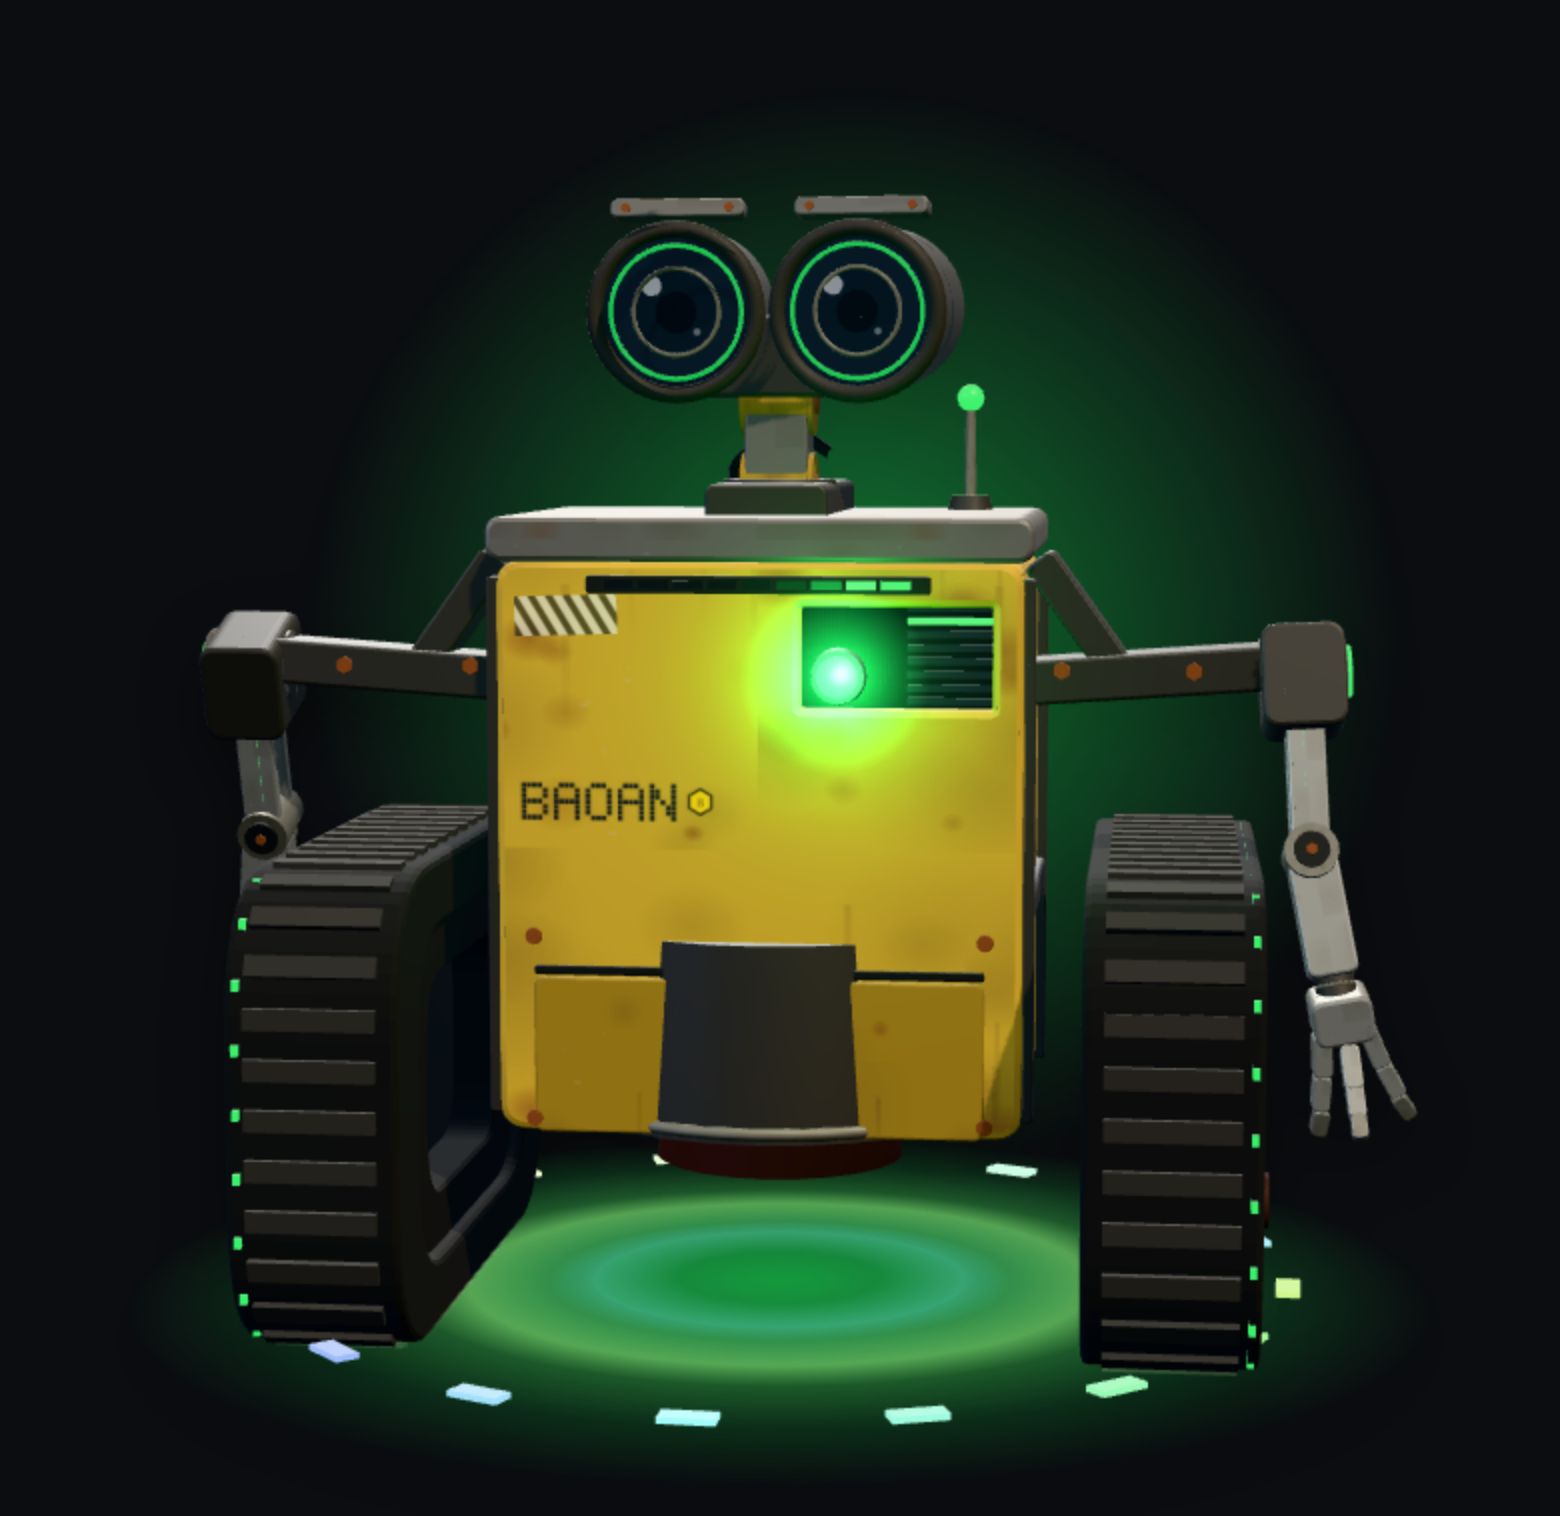
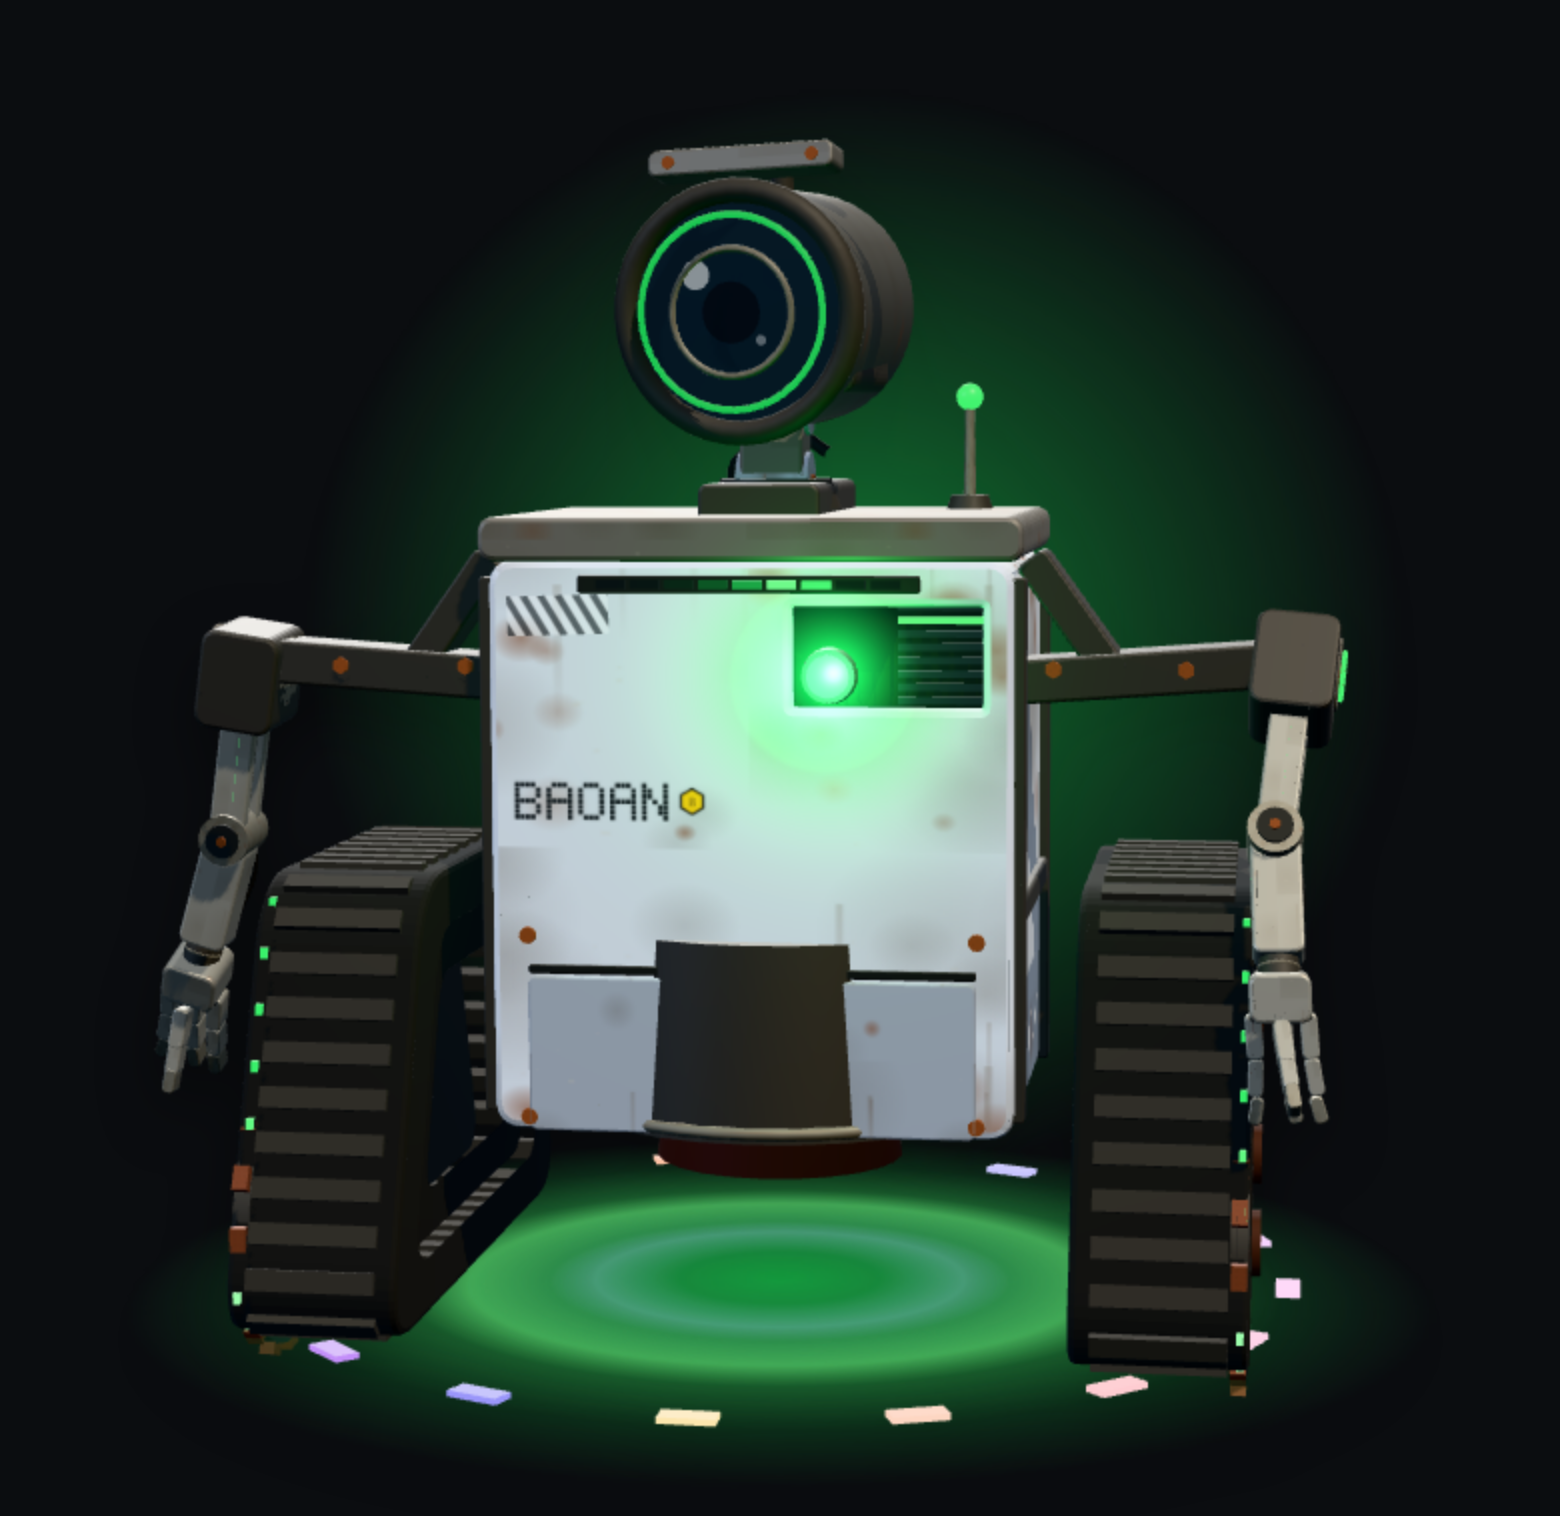
feat: give the robot a distinct factory look
- default appearance is now titanium white, single-eye head, trapezoid tracks and three-finger claws, with a matching '钛金原色' theme
- keep every existing skin/head/track/claw option and leave saved looks untouched; only fresh installs and reset-look use the new default
- README drops the homage wording and describes an original cartoon robot; hero image and landing demo regenerated
- add a contract test tying config DEFAULTS to the palette and UI option lists, and update the palette/UI expectations

diff --git a/docs/demo/robot3d.js b/docs/demo/robot3d.js
@@ -45,10 +45,10 @@ function datasetJson(key) {
 
 // ------------------------------------------------------------------ materials
 
-// The palette is the character: dusty ochre paint over gunmetal, rust where the
+// The palette is the character: titanium paint over gunmetal, rust where the
 // paint has worn through, and not one mirror-bright surface anywhere. Chrome
-// reads as "new toy"; WALL·E is a machine that has been outside for 700 years.
-// 初始材质取 palette 的第一项（做旧黄 / 默认黑瞳 / 黑履带 / 枪灰配件），
+// reads as "new toy"; this robot reads as a machine that has been outside for years.
+// 初始材质取 palette 的第一项（钛金白 / 默认黑瞳 / 黑履带 / 枪灰配件），
 // 也就是 config 的出厂默认值 —— 免得同一组颜色在这里被抄第三遍。
 const DEFAULT_SKIN = SKIN_TONES[0];
 const DEFAULT_EYE = EYE_TONES[0];
@@ -152,7 +152,7 @@ function applySkin(name, hex) {
     main = toHex(base);
     dark = darkenHex(main);
   } else {
-    const s = SKINS[name] || SKINS['做旧黄'];
+    const s = SKINS[name] || SKINS[DEFAULT_SKIN.name];
     main = s.main;
     dark = s.dark;
   }
@@ -226,7 +226,7 @@ const CLAW_TYPES = {
   '四指': { fingers: [[-0.072, -1], [-0.024, 1], [0.024, -1], [0.072, 1]], w: 0.032 },
   '五指': { fingers: [[-0.080, -1], [-0.040, 1], [0, -1], [0.040, 1], [0.080, -1]], w: 0.026 },
 };
-let clawType = '铲形';
+let clawType = '三指';
 
 // ---- 胳膊形状：上臂造型可切换，切换时重建手臂 ------------------------------
 const ARM_TYPES = { '双板': 'plate', '圆筒': 'cylinder', '桁架': 'truss' };
@@ -234,7 +234,7 @@ let armType = '双板';
 
 // ---- 履带形状：轮廓可切换（圆角矩形 / 三角形 / 梯形），切换时重建履带 ------
 const TRACK_TYPES = { '圆角矩形': 'rect', '三角形': 'tri', '梯形': 'trap' };
-let trackType = '圆角矩形';
+let trackType = '梯形';
 
 // ---- 场景：机器人脚下的「立足之地」与氛围粒子 ------------------------------
 const SCENES = {
@@ -256,7 +256,7 @@ const SCENES = {
 let sceneType = '无';
 let particleOpacity = 0;   // 当前场景粒子「不降动效时」的目标透明度（applyScene 记录）
 
-// ---- 头形状：双筒（默认）/ 单眼（中央大眼）/ 三眼（双目 + 额前传感器）------
+// ---- 头形状：单眼（默认）/ 双筒 / 三眼（双目 + 额前传感器）------
 // 每只眼：side 镜像方向（转动/眉形）、x/y 位置、scale 大小。
 const HEAD_TYPES = {
   '双筒': { eyes: [{ side: -1, x: -0.285, y: 0.13, scale: 1 }, { side: 1, x: 0.285, y: 0.13, scale: 1 }] },
@@ -270,7 +270,7 @@ const HEAD_TYPES = {
     ],
   },
 };
-let headType = '双筒';
+let headType = '单眼';
 
 // ---- 眼睛形状：镜筒截面（圆 / 方 / 六边形 / 三角），切换时重建眼睛 ----------
 const EYE_SHAPES = { '圆': 'round', '方': 'square', '六边形': 'hex', '三角': 'tri' };
@@ -1644,7 +1644,7 @@ if (host && renderer) {
 
   // 眼睛构建：读全局 headType（双筒/单眼/三眼），返回新眼睛与泪滴数组。
   function buildEyes() {
-    const cfg = HEAD_TYPES[headType] || HEAD_TYPES['双筒'];
+    const cfg = HEAD_TYPES[headType] || HEAD_TYPES['单眼'];
     const newEyes = [];
     const newTears = [];
     for (const eyeCfg of cfg.eyes) {
@@ -1942,7 +1942,7 @@ if (host && renderer) {
     // an articulated shovel, not a pair of slabs. The middle knuckle is the
     // joint that makes a pinch look like a pinch instead of a clamp. The claw
     // type (铲形 2 指 / 三指 3 指 / 钳形粗指) changes the count and width.
-    const claw = CLAW_TYPES[clawType] || CLAW_TYPES['铲形'];
+    const claw = CLAW_TYPES[clawType] || CLAW_TYPES['三指'];
     const fingerGeo = slab(claw.w, 0.11, 0.062, { r: 0.016, bevel: 0.005 });
     const knuckleGeo = slab(claw.w - 0.004, 0.09, 0.060, { r: 0.015, bevel: 0.004 });
     const tipGeo = slab(claw.w - 0.008, 0.065, 0.058, { r: 0.014, bevel: 0.004 });

diff --git a/src/overlay/robot3d.js b/src/overlay/robot3d.js
@@ -45,10 +45,10 @@ function datasetJson(key) {
 
 // ------------------------------------------------------------------ materials
 
-// The palette is the character: dusty ochre paint over gunmetal, rust where the
+// The palette is the character: titanium paint over gunmetal, rust where the
 // paint has worn through, and not one mirror-bright surface anywhere. Chrome
-// reads as "new toy"; WALL·E is a machine that has been outside for 700 years.
-// 初始材质取 palette 的第一项（做旧黄 / 默认黑瞳 / 黑履带 / 枪灰配件），
+// reads as "new toy"; this robot reads as a machine that has been outside for years.
+// 初始材质取 palette 的第一项（钛金白 / 默认黑瞳 / 黑履带 / 枪灰配件），
 // 也就是 config 的出厂默认值 —— 免得同一组颜色在这里被抄第三遍。
 const DEFAULT_SKIN = SKIN_TONES[0];
 const DEFAULT_EYE = EYE_TONES[0];
@@ -152,7 +152,7 @@ function applySkin(name, hex) {
     main = toHex(base);
     dark = darkenHex(main);
   } else {
-    const s = SKINS[name] || SKINS['做旧黄'];
+    const s = SKINS[name] || SKINS[DEFAULT_SKIN.name];
     main = s.main;
     dark = s.dark;
   }
@@ -226,7 +226,7 @@ const CLAW_TYPES = {
   '四指': { fingers: [[-0.072, -1], [-0.024, 1], [0.024, -1], [0.072, 1]], w: 0.032 },
   '五指': { fingers: [[-0.080, -1], [-0.040, 1], [0, -1], [0.040, 1], [0.080, -1]], w: 0.026 },
 };
-let clawType = '铲形';
+let clawType = '三指';
 
 // ---- 胳膊形状：上臂造型可切换，切换时重建手臂 ------------------------------
 const ARM_TYPES = { '双板': 'plate', '圆筒': 'cylinder', '桁架': 'truss' };
@@ -234,7 +234,7 @@ let armType = '双板';
 
 // ---- 履带形状：轮廓可切换（圆角矩形 / 三角形 / 梯形），切换时重建履带 ------
 const TRACK_TYPES = { '圆角矩形': 'rect', '三角形': 'tri', '梯形': 'trap' };
-let trackType = '圆角矩形';
+let trackType = '梯形';
 
 // ---- 场景：机器人脚下的「立足之地」与氛围粒子 ------------------------------
 const SCENES = {
@@ -256,7 +256,7 @@ const SCENES = {
 let sceneType = '无';
 let particleOpacity = 0;   // 当前场景粒子「不降动效时」的目标透明度（applyScene 记录）
 
-// ---- 头形状：双筒（默认）/ 单眼（中央大眼）/ 三眼（双目 + 额前传感器）------
+// ---- 头形状：单眼（默认）/ 双筒 / 三眼（双目 + 额前传感器）------
 // 每只眼：side 镜像方向（转动/眉形）、x/y 位置、scale 大小。
 const HEAD_TYPES = {
   '双筒': { eyes: [{ side: -1, x: -0.285, y: 0.13, scale: 1 }, { side: 1, x: 0.285, y: 0.13, scale: 1 }] },
@@ -270,7 +270,7 @@ const HEAD_TYPES = {
     ],
   },
 };
-let headType = '双筒';
+let headType = '单眼';
 
 // ---- 眼睛形状：镜筒截面（圆 / 方 / 六边形 / 三角），切换时重建眼睛 ----------
 const EYE_SHAPES = { '圆': 'round', '方': 'square', '六边形': 'hex', '三角': 'tri' };
@@ -1644,7 +1644,7 @@ if (host && renderer) {
 
   // 眼睛构建：读全局 headType（双筒/单眼/三眼），返回新眼睛与泪滴数组。
   function buildEyes() {
-    const cfg = HEAD_TYPES[headType] || HEAD_TYPES['双筒'];
+    const cfg = HEAD_TYPES[headType] || HEAD_TYPES['单眼'];
     const newEyes = [];
     const newTears = [];
     for (const eyeCfg of cfg.eyes) {
@@ -1942,7 +1942,7 @@ if (host && renderer) {
     // an articulated shovel, not a pair of slabs. The middle knuckle is the
     // joint that makes a pinch look like a pinch instead of a clamp. The claw
     // type (铲形 2 指 / 三指 3 指 / 钳形粗指) changes the count and width.
-    const claw = CLAW_TYPES[clawType] || CLAW_TYPES['铲形'];
+    const claw = CLAW_TYPES[clawType] || CLAW_TYPES['三指'];
     const fingerGeo = slab(claw.w, 0.11, 0.062, { r: 0.016, bevel: 0.005 });
     const knuckleGeo = slab(claw.w - 0.004, 0.09, 0.060, { r: 0.015, bevel: 0.004 });
     const tipGeo = slab(claw.w - 0.008, 0.065, 0.058, { r: 0.014, bevel: 0.004 });

diff --git a/src/overlay/ui.js b/src/overlay/ui.js
@@ -2775,6 +2775,7 @@ import {
 
   // 配色主题：一键套用整套协调配色（皮肤/眼睛/履带/配件），仍可单独微调。
   const THEMES = {
+    '钛金原色': { skin: '钛金白', eye: '默认黑', track: '黑', arm: '枪灰' },
     '经典战损黄': { skin: '做旧黄', eye: '默认黑', track: '黑', arm: '枪灰' },
     '纯白机甲': { skin: '岩灰', eye: '蓝瞳', track: '岩灰', arm: '银白' },
     '赛博霓虹': { skin: '深海蓝', eye: '蓝瞳', track: '黑', arm: '暗黑' },
@@ -3737,8 +3738,8 @@ import {
 
   // 一键重置外观：只恢复外观与动作，不碰尺寸、位置、声音和系统开关。
   const LOOK_DEFAULTS = {
-    skin: '做旧黄', eyestyle: '默认黑', eyeshape: '圆', trackstyle: '黑', tracktype: '圆角矩形',
-    armskin: '枪灰', claw: '铲形', armtype: '双板', headtype: '双筒', scene: '无',
+    skin: '钛金白', eyestyle: '默认黑', eyeshape: '圆', trackstyle: '黑', tracktype: '梯形',
+    armskin: '枪灰', claw: '三指', armtype: '双板', headtype: '单眼', scene: '无',
     motion: '标准', halo: '环形', body: '标准', baseEffect: '状态色', brightness: 1,
     decoration: '无', wear: 1, finish: '标准',
     poses: { error: '环抱', waiting: '举手', busy: '泵动', done: '摊开', idle: '垂放' },
@@ -4731,19 +4732,19 @@ import {
         p.apply();
       }
       // 主题下拉由 syncThemeLabel 在所有配色就位后自动判定（匹配主题或「自定义」）。
-      const tt = TRACKTYPE_NAMES.includes(cfg.tracktype) ? cfg.tracktype : '圆角矩形';
+      const tt = TRACKTYPE_NAMES.includes(cfg.tracktype) ? cfg.tracktype : '梯形';
       tracktypeSel.value = tt;
       window.dispatchEvent(new CustomEvent('bao:tracktype', { detail: { tracktype: tt } }));
-      // 四项配色都已就位，现在才能判定主题；否则下拉停在第一项「经典战损黄」，
+      // 四项配色都已就位，现在才能判定主题；否则下拉停在第一项「钛金原色」，
       // 与机器人实际配色不符，用户也没法靠「再选一次」纠正。
       syncThemeLabel();
-      const cw = CLAW_NAMES.includes(cfg.claw) ? cfg.claw : '铲形';
+      const cw = CLAW_NAMES.includes(cfg.claw) ? cfg.claw : '三指';
       clawSel.value = cw;
       window.dispatchEvent(new CustomEvent('bao:claw', { detail: { claw: cw } }));
       const at = ARMTYPE_NAMES.includes(cfg.armtype) ? cfg.armtype : '双板';
       armtypeSel.value = at;
       window.dispatchEvent(new CustomEvent('bao:armtype', { detail: { armtype: at } }));
-      const ht = HEADTYPE_NAMES.includes(cfg.headtype) ? cfg.headtype : '双筒';
+      const ht = HEADTYPE_NAMES.includes(cfg.headtype) ? cfg.headtype : '单眼';
       headtypeSel.value = ht;
       window.dispatchEvent(new CustomEvent('bao:headtype', { detail: { headtype: ht } }));
       const dc = DECORATION_NAMES.includes(cfg.decoration) ? cfg.decoration : '无';

diff --git a/test/contracts.test.js b/test/contracts.test.js
@@ -246,6 +246,24 @@ test('every user-facing config key is in the export list', () => {
   assert.deepEqual(unknown, [], `the export list names keys that do not exist: ${unknown.join(', ')}`);
 });
 
+// 出厂外观有两处真源：config.js 的 DEFAULTS 和 palette/界面选项。任何一边改了
+// 默认值而另一边没跟，表现都是「新装用户看到的下拉值与机器人身上的颜色/形状
+// 对不上」—— 没有报错，也没有截图会失败。
+test('the factory appearance in config matches what the renderer starts with', async () => {
+  const { DEFAULTS } = require('../src/config');
+  const palette = await import('../src/overlay/shared/palette.mjs');
+
+  assert.equal(DEFAULTS.skin, palette.SKIN_TONES[0].name, 'palette index 0 is the factory skin');
+  assert.equal(DEFAULTS.eyestyle, palette.EYE_TONES[0].name);
+  assert.equal(DEFAULTS.trackstyle, palette.TRACK_TONES[0].name);
+  assert.equal(DEFAULTS.armskin, palette.ARM_TONES[0].name);
+
+  // 这三项没有调色板顺序，但必须是界面真的提供的选项（ui.js 的列表）。
+  assert.ok(['双筒', '单眼', '三眼'].includes(DEFAULTS.headtype), `bad headtype: ${DEFAULTS.headtype}`);
+  assert.ok(['铲形', '三指', '钳形', '四指', '五指'].includes(DEFAULTS.claw), `bad claw: ${DEFAULTS.claw}`);
+  assert.ok(['圆角矩形', '三角形', '梯形'].includes(DEFAULTS.tracktype), `bad tracktype: ${DEFAULTS.tracktype}`);
+});
+
 // ------------------------------------------------------------ stylesheet traps
 
 // `#menu button { width: 100% }` 是给整宽按钮（导出/退出）用的，但它的特异性

diff --git a/test-ui/overlay.spec.js b/test-ui/overlay.spec.js
@@ -1111,7 +1111,7 @@ test('custom colours are per part and reset with the look', async ({ page }) => 
     await expect(page.locator(row)).toBeHidden();
   }
   await expect(page.locator('#eye-swatch')).toHaveCSS('background-color', 'rgb(27, 36, 44)');
-  await expect(page.locator('#m-theme')).toHaveValue('经典战损黄');
+  await expect(page.locator('#m-theme')).toHaveValue('钛金原色');
 });
 
 // 广告牌颜色也能自定义：任意十六进制直接下发给场景（牌子是 canvas 画的，
@@ -2501,7 +2501,7 @@ test('reset look restores the factory appearance, random look stays valid', asyn
   await page.selectOption('#m-decoration', '皇冠');
   await page.locator('#m-reset-look').click();
   await expect(page.locator('#m-decoration')).toHaveValue('无');
-  await expect(page.locator('#m-skin')).toHaveValue('做旧黄');
+  await expect(page.locator('#m-skin')).toHaveValue('钛金白');
 
   await page.evaluate(() => { window.__bao = []; });
   await page.locator('#m-random-look').click();

diff --git a/src/config.js b/src/config.js
@@ -113,15 +113,15 @@ const DEFAULTS = {
   firstRun: null,
   // ---- 外观 ----
   body: '标准',
-  skin: '做旧黄',
+  skin: '钛金白',
   eyestyle: '默认黑',
   eyeshape: '圆',
   trackstyle: '黑',
-  tracktype: '圆角矩形',
+  tracktype: '梯形',
   armskin: '枪灰',
-  claw: '铲形',
+  claw: '三指',
   armtype: '双板',
-  headtype: '双筒',
+  headtype: '单眼',
   scene: '无',
   // 场景按时间自动切换：白天一个场景、夜晚一个场景（支持跨午夜 20:00 → 07:00）。
   // 关闭时 scene 是唯一来源；打开后 sceneSel 的值不再生效，由时间决定。

diff --git a/README.md b/README.md
@@ -24,7 +24,7 @@
 
 ![baoanlight 桌面机器人](docs/robot.png)
 
-它是一台黄色履带机器人（造型致敬经典履带机器人，与 Disney/Pixar 无任何关联）：干活时履带滚动、
+它是一台原创的卡通履带机器人（与任何影视角色、公司或商标均无关联）：干活时履带滚动、
 爪子摆动、眼睛左右扫视；需要你时抬起双爪、胸口警示灯急促闪烁；完成后原地转一圈再连跳两下；
 空闲时会自己找事做——张望、伸懒腰、抛接小球、抖擞、抬手端详手爪、转身巡视、点头致意。
 
@@ -334,7 +334,7 @@ bao fuel 12 --used --agent ci --label "build minutes"   # --used 表示「已用
 | 类别 | 选项 |
 |---|---|
 | 体型 / 尺寸 | Q版·标准·修长；70%–170% 缩放 |
-| 皮肤 | 13 种（做旧黄 / 军绿 / 金属银 / 碳纤黑 / 樱花粉 / 钛金白 / 午夜紫…） |
+| 皮肤 | 13 种（钛金白 / 做旧黄 / 军绿 / 金属银 / 碳纤黑 / 樱花粉 / 午夜紫…） |
 | 瞳色 / 镜筒 | 10 种瞳色（含白瞳 / 玫红瞳）；圆·方·六边形·三角镜筒 |
 | 履带 / 配件 | 9 种履带配色（含石墨 / 沙色）+ 3 种履带形状；10 种配件配色（含钛银 / 玫瑰金） |
 | 手爪 / 胳膊 / 头型 | 5 种手爪、3 种胳膊、双筒·单眼·三眼 |
